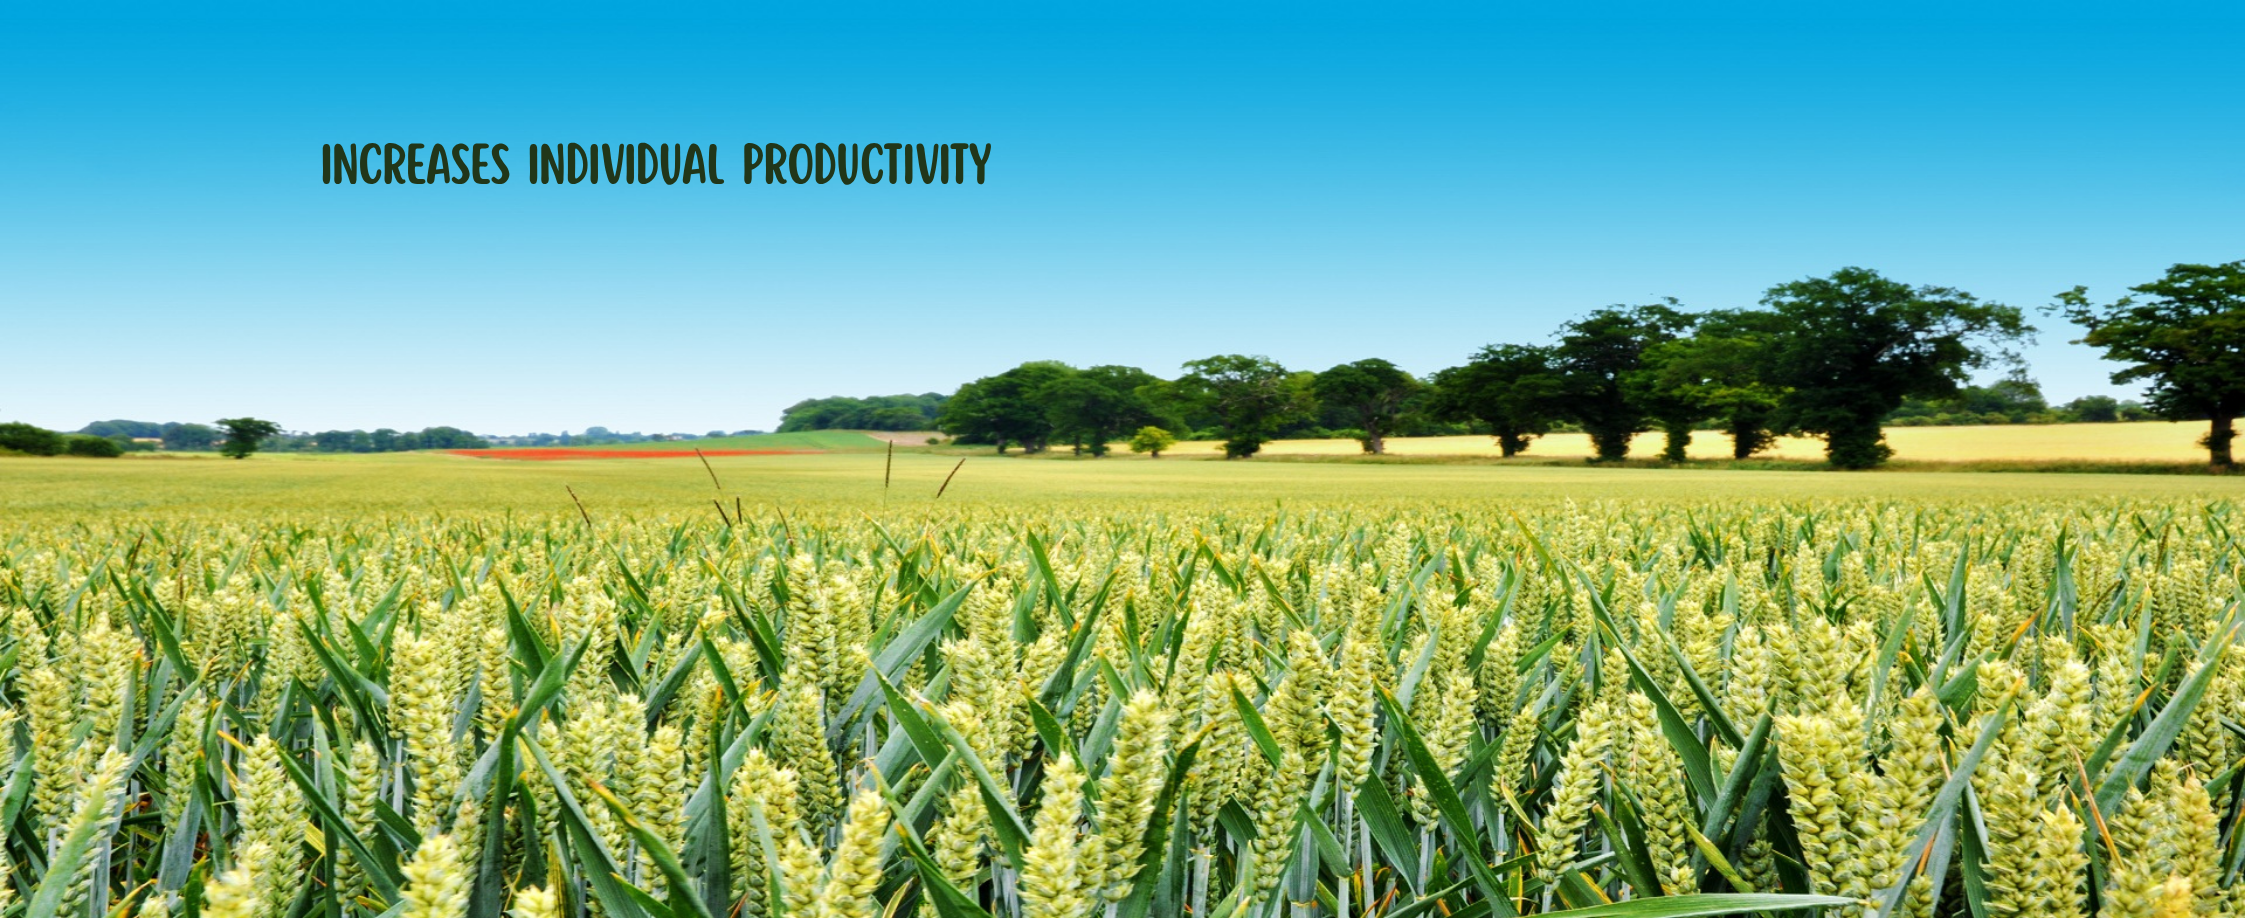
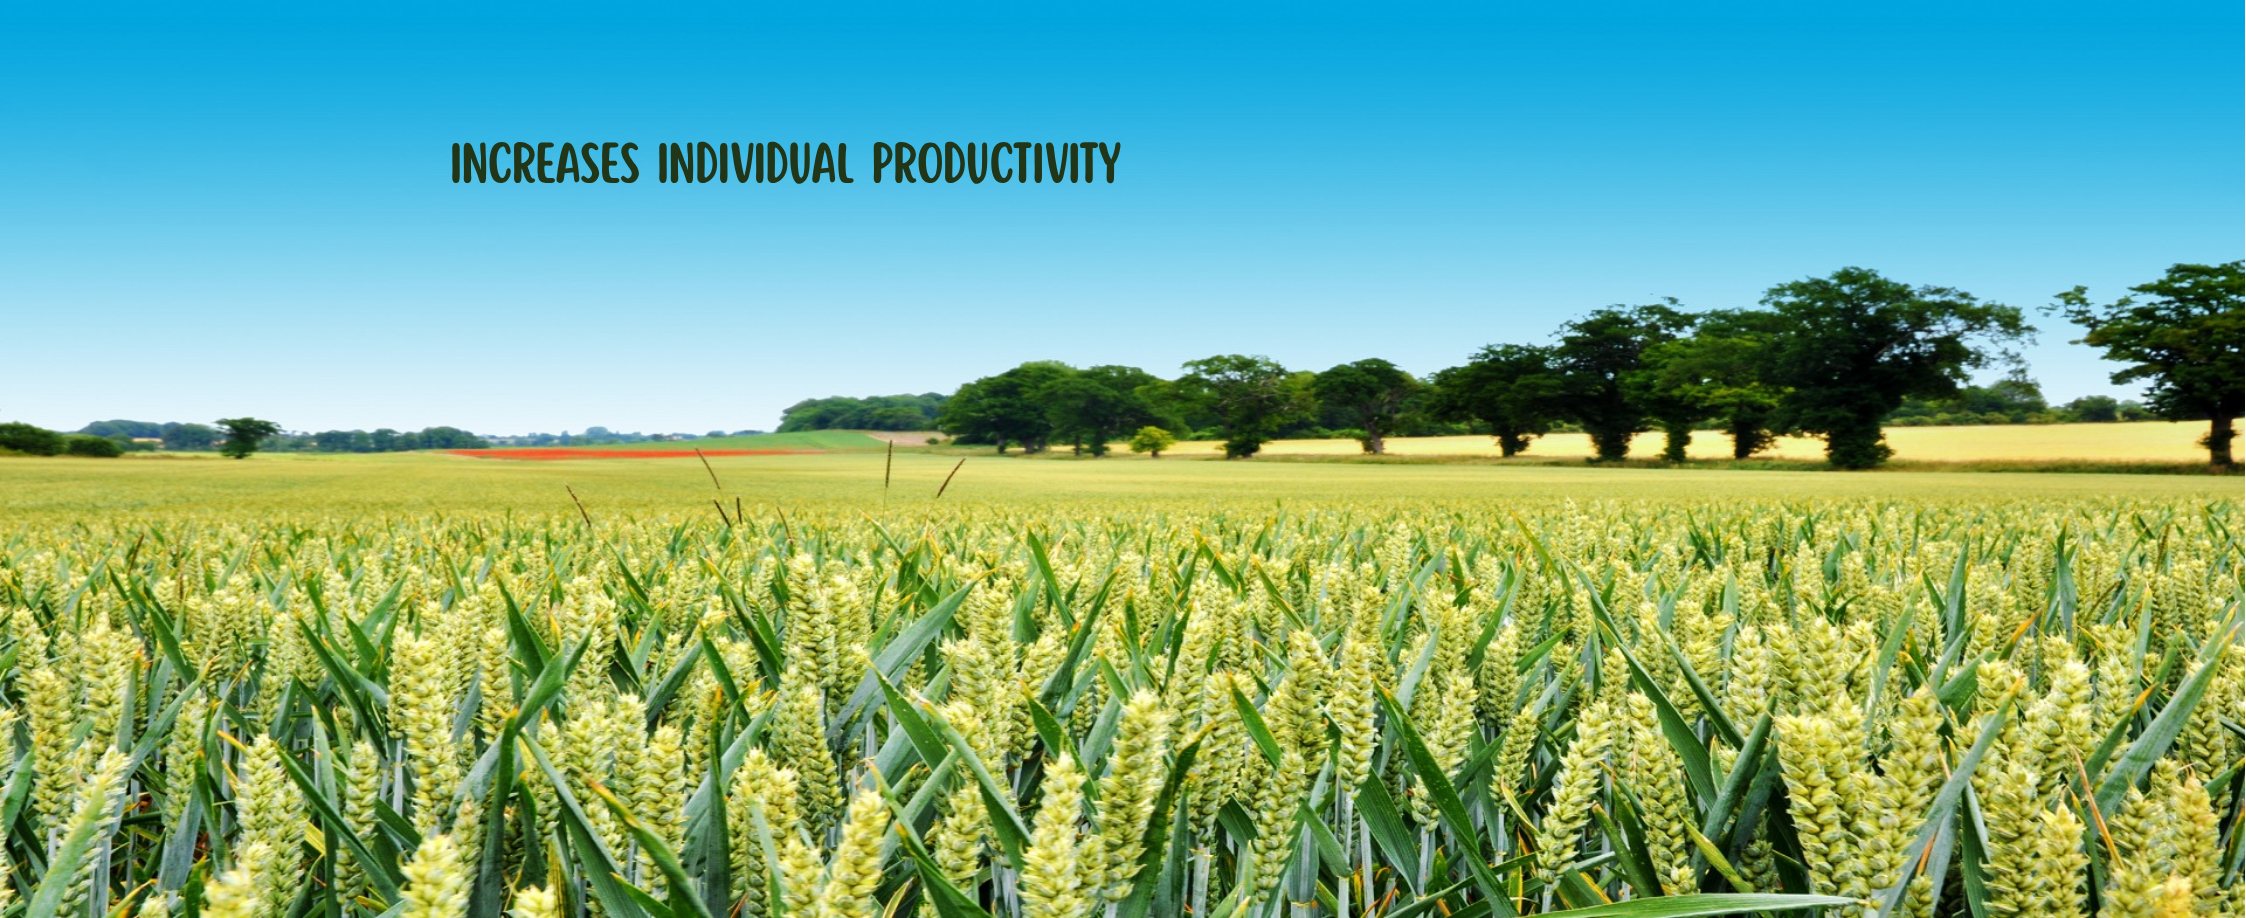
cambios de posición de las palabras en el hero inicial.

Changed region(s): [[0.1247, 0.1525, 0.4987, 0.2135]]

diff --git a/css/responsive.css b/css/responsive.css
@@ -6,7 +6,7 @@
 /* Medium devices (tablets, 600px and up)
 /*-----------------------------------------------------------------*/
 
-@media (min-width: 600px) and (max-width: 1023px) {
+@media (min-width: 600px) and (max-width: 1024px) {
 
 	/*-----------------------------------------------------------------*/
 	/* 01. Header

diff --git a/css/style.css b/css/style.css
@@ -391,6 +391,7 @@ header {
 	animation: zoomOut 5s ease-in-out forwards;
 }
 
+/* Zoom en las imágenes
 @keyframes zoomOut {
 	0% {
 		transform: scale(1.1);
@@ -399,7 +400,7 @@ header {
 	100% {
 		transform: scale(1);
 	}
-}
+} */
 
 .hero-overlay {
 	position: absolute;
